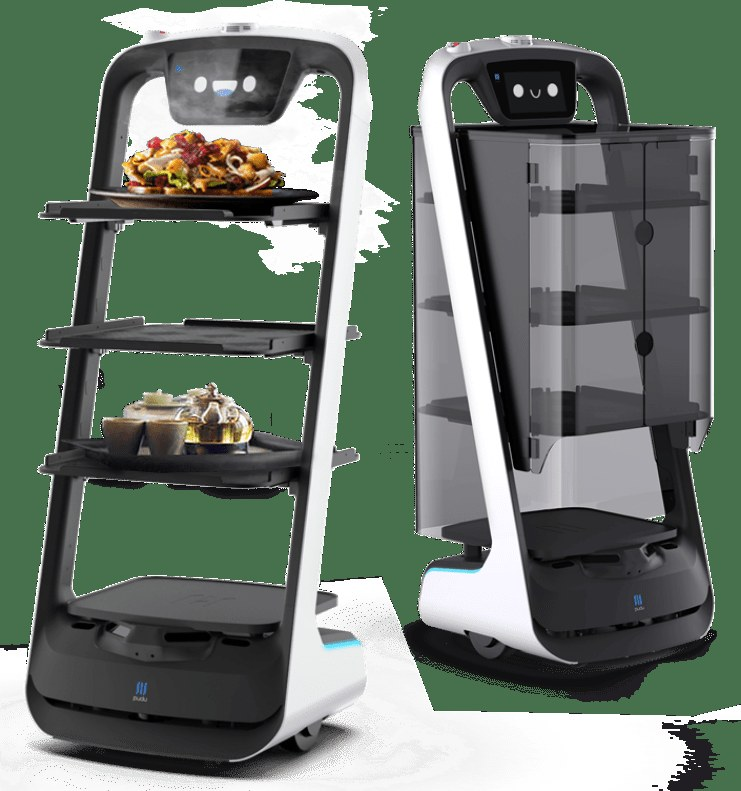
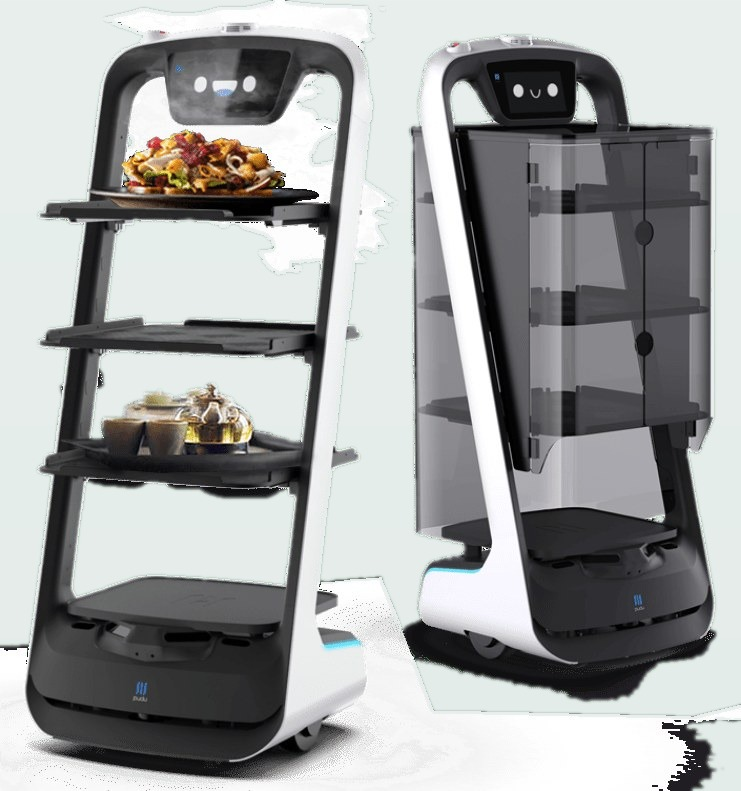
Harden product image framing so robots are never clipped
Switch tile/detail media to flex + max-width/height contain (avoids
padding overflow crop), cache-bust CSS, and clean BellaBot cutout edges.

diff --git a/css/styles.css b/css/styles.css
@@ -431,14 +431,17 @@ p {
   background:
     radial-gradient(circle at 30% 20%, rgba(255, 255, 255, 0.9), transparent 45%),
     linear-gradient(160deg, #e7eeec 0%, #d5e0dc 55%, #c9d6d1 100%);
-  display: grid;
-  place-items: center;
-  padding: 1.35rem;
+  display: flex;
+  align-items: center;
+  justify-content: center;
+  padding: 1.5rem;
 }
 
 .robot-tile-media img {
-  width: 100%;
-  height: 100%;
+  width: auto;
+  height: auto;
+  max-width: 100%;
+  max-height: 100%;
   object-fit: contain;
   object-position: center;
   transition: transform 0.7s ease;
@@ -557,14 +560,17 @@ p {
   background:
     radial-gradient(circle at 50% 30%, rgba(255, 255, 255, 0.95), transparent 50%),
     linear-gradient(165deg, #eaf0ee 0%, #d8e3df 100%);
-  display: grid;
-  place-items: center;
-  padding: 1.5rem;
+  display: flex;
+  align-items: center;
+  justify-content: center;
+  padding: 1.75rem;
 }
 
 .detail-gallery .main-shot img {
-  width: 100%;
-  height: 100%;
+  width: auto;
+  height: auto;
+  max-width: 100%;
+  max-height: 100%;
   object-fit: contain;
   object-position: center;
 }
@@ -577,12 +583,15 @@ p {
 
 .detail-thumbs button {
   border: 1px solid transparent;
-  padding: 0.35rem;
+  padding: 0.4rem;
   background:
     linear-gradient(160deg, #eef3f1 0%, #dce6e2 100%);
   cursor: pointer;
   aspect-ratio: 1 / 1;
   overflow: hidden;
+  display: flex;
+  align-items: center;
+  justify-content: center;
 }
 
 .detail-thumbs button.active,
@@ -591,8 +600,10 @@ p {
 }
 
 .detail-thumbs img {
-  width: 100%;
-  height: 100%;
+  width: auto;
+  height: auto;
+  max-width: 100%;
+  max-height: 100%;
   object-fit: contain;
   object-position: center;
 }
@@ -973,9 +984,10 @@ p {
 
 .brand-roster-media {
   aspect-ratio: 1 / 1;
-  display: grid;
-  place-items: center;
-  padding: 1.25rem;
+  display: flex;
+  align-items: center;
+  justify-content: center;
+  padding: 1.35rem;
   background:
     radial-gradient(circle at 30% 20%, rgba(255, 255, 255, 0.95), transparent 45%),
     linear-gradient(160deg, #e7eeec 0%, #d5e0dc 55%, #c9d6d1 100%);
@@ -983,8 +995,10 @@ p {
 }
 
 .brand-roster-media img {
-  width: 100%;
-  height: 100%;
+  width: auto;
+  height: auto;
+  max-width: 100%;
+  max-height: 100%;
   object-fit: contain;
   object-position: center;
   transition: transform 0.6s ease;

diff --git a/brands/index.html b/brands/index.html
@@ -8,7 +8,7 @@
   <link rel="preconnect" href="https://fonts.googleapis.com" />
   <link rel="preconnect" href="https://fonts.gstatic.com" crossorigin />
   <link href="https://fonts.googleapis.com/css2?family=Fraunces:opsz,wght@9..144,400;9..144,500;9..144,600&family=Sora:wght@300;400;500;600&display=swap" rel="stylesheet" />
-  <link rel="stylesheet" href="../css/styles.css" />
+  <link rel="stylesheet" href="../css/styles.css?v=2">
   <link rel="icon" href="../assets/robopearl-logo.jpg" />
 </head>
 <body>

diff --git a/brands/pudu.html b/brands/pudu.html
@@ -8,7 +8,7 @@
   <link rel="preconnect" href="https://fonts.googleapis.com" />
   <link rel="preconnect" href="https://fonts.gstatic.com" crossorigin />
   <link href="https://fonts.googleapis.com/css2?family=Fraunces:opsz,wght@9..144,400;9..144,500;9..144,600&family=Sora:wght@300;400;500;600&display=swap" rel="stylesheet" />
-  <link rel="stylesheet" href="../css/styles.css" />
+  <link rel="stylesheet" href="../css/styles.css?v=2">
   <link rel="icon" href="../assets/robopearl-logo.jpg" />
 </head>
 <body>

diff --git a/brands/robowaiter.html b/brands/robowaiter.html
@@ -8,7 +8,7 @@
   <link rel="preconnect" href="https://fonts.googleapis.com" />
   <link rel="preconnect" href="https://fonts.gstatic.com" crossorigin />
   <link href="https://fonts.googleapis.com/css2?family=Fraunces:opsz,wght@9..144,400;9..144,500;9..144,600&family=Sora:wght@300;400;500;600&display=swap" rel="stylesheet" />
-  <link rel="stylesheet" href="../css/styles.css" />
+  <link rel="stylesheet" href="../css/styles.css?v=2">
   <link rel="icon" href="../assets/robopearl-logo.jpg" />
 </head>
 <body>

diff --git a/robots/bellabot-pro.html b/robots/bellabot-pro.html
@@ -8,7 +8,7 @@
   <link rel="preconnect" href="https://fonts.googleapis.com" />
   <link rel="preconnect" href="https://fonts.gstatic.com" crossorigin />
   <link href="https://fonts.googleapis.com/css2?family=Fraunces:opsz,wght@9..144,400;9..144,500;9..144,600&family=Sora:wght@300;400;500;600&display=swap" rel="stylesheet" />
-  <link rel="stylesheet" href="../css/styles.css" />
+  <link rel="stylesheet" href="../css/styles.css?v=2">
   <link rel="icon" href="../assets/robopearl-logo.jpg" />
 </head>
 <body>

diff --git a/robots/bellabot.html b/robots/bellabot.html
@@ -8,7 +8,7 @@
   <link rel="preconnect" href="https://fonts.googleapis.com" />
   <link rel="preconnect" href="https://fonts.gstatic.com" crossorigin />
   <link href="https://fonts.googleapis.com/css2?family=Fraunces:opsz,wght@9..144,400;9..144,500;9..144,600&family=Sora:wght@300;400;500;600&display=swap" rel="stylesheet" />
-  <link rel="stylesheet" href="../css/styles.css" />
+  <link rel="stylesheet" href="../css/styles.css?v=2">
   <link rel="icon" href="../assets/robopearl-logo.jpg" />
 </head>
 <body>

diff --git a/robots/flashbot-max.html b/robots/flashbot-max.html
@@ -8,7 +8,7 @@
   <link rel="preconnect" href="https://fonts.googleapis.com" />
   <link rel="preconnect" href="https://fonts.gstatic.com" crossorigin />
   <link href="https://fonts.googleapis.com/css2?family=Fraunces:opsz,wght@9..144,400;9..144,500;9..144,600&family=Sora:wght@300;400;500;600&display=swap" rel="stylesheet" />
-  <link rel="stylesheet" href="../css/styles.css" />
+  <link rel="stylesheet" href="../css/styles.css?v=2">
   <link rel="icon" href="../assets/robopearl-logo.jpg" />
 </head>
 <body>

diff --git a/robots/george-robot.html b/robots/george-robot.html
@@ -8,7 +8,7 @@
   <link rel="preconnect" href="https://fonts.googleapis.com" />
   <link rel="preconnect" href="https://fonts.gstatic.com" crossorigin />
   <link href="https://fonts.googleapis.com/css2?family=Fraunces:opsz,wght@9..144,400;9..144,500;9..144,600&family=Sora:wght@300;400;500;600&display=swap" rel="stylesheet" />
-  <link rel="stylesheet" href="../css/styles.css" />
+  <link rel="stylesheet" href="../css/styles.css?v=2">
   <link rel="icon" href="../assets/robopearl-logo.jpg" />
 </head>
 <body>

diff --git a/robots/holabot.html b/robots/holabot.html
@@ -8,7 +8,7 @@
   <link rel="preconnect" href="https://fonts.googleapis.com" />
   <link rel="preconnect" href="https://fonts.gstatic.com" crossorigin />
   <link href="https://fonts.googleapis.com/css2?family=Fraunces:opsz,wght@9..144,400;9..144,500;9..144,600&family=Sora:wght@300;400;500;600&display=swap" rel="stylesheet" />
-  <link rel="stylesheet" href="../css/styles.css" />
+  <link rel="stylesheet" href="../css/styles.css?v=2">
   <link rel="icon" href="../assets/robopearl-logo.jpg" />
 </head>
 <body>

diff --git a/robots/kettybot-pro.html b/robots/kettybot-pro.html
@@ -8,7 +8,7 @@
   <link rel="preconnect" href="https://fonts.googleapis.com" />
   <link rel="preconnect" href="https://fonts.gstatic.com" crossorigin />
   <link href="https://fonts.googleapis.com/css2?family=Fraunces:opsz,wght@9..144,400;9..144,500;9..144,600&family=Sora:wght@300;400;500;600&display=swap" rel="stylesheet" />
-  <link rel="stylesheet" href="../css/styles.css" />
+  <link rel="stylesheet" href="../css/styles.css?v=2">
   <link rel="icon" href="../assets/robopearl-logo.jpg" />
 </head>
 <body>

diff --git a/robots/pudubot-2.html b/robots/pudubot-2.html
@@ -8,7 +8,7 @@
   <link rel="preconnect" href="https://fonts.googleapis.com" />
   <link rel="preconnect" href="https://fonts.gstatic.com" crossorigin />
   <link href="https://fonts.googleapis.com/css2?family=Fraunces:opsz,wght@9..144,400;9..144,500;9..144,600&family=Sora:wght@300;400;500;600&display=swap" rel="stylesheet" />
-  <link rel="stylesheet" href="../css/styles.css" />
+  <link rel="stylesheet" href="../css/styles.css?v=2">
   <link rel="icon" href="../assets/robopearl-logo.jpg" />
 </head>
 <body>

diff --git a/robots/robowaiter-r2.html b/robots/robowaiter-r2.html
@@ -8,7 +8,7 @@
   <link rel="preconnect" href="https://fonts.googleapis.com" />
   <link rel="preconnect" href="https://fonts.gstatic.com" crossorigin />
   <link href="https://fonts.googleapis.com/css2?family=Fraunces:opsz,wght@9..144,400;9..144,500;9..144,600&family=Sora:wght@300;400;500;600&display=swap" rel="stylesheet" />
-  <link rel="stylesheet" href="../css/styles.css" />
+  <link rel="stylesheet" href="../css/styles.css?v=2">
   <link rel="icon" href="../assets/robopearl-logo.jpg" />
 </head>
 <body>
